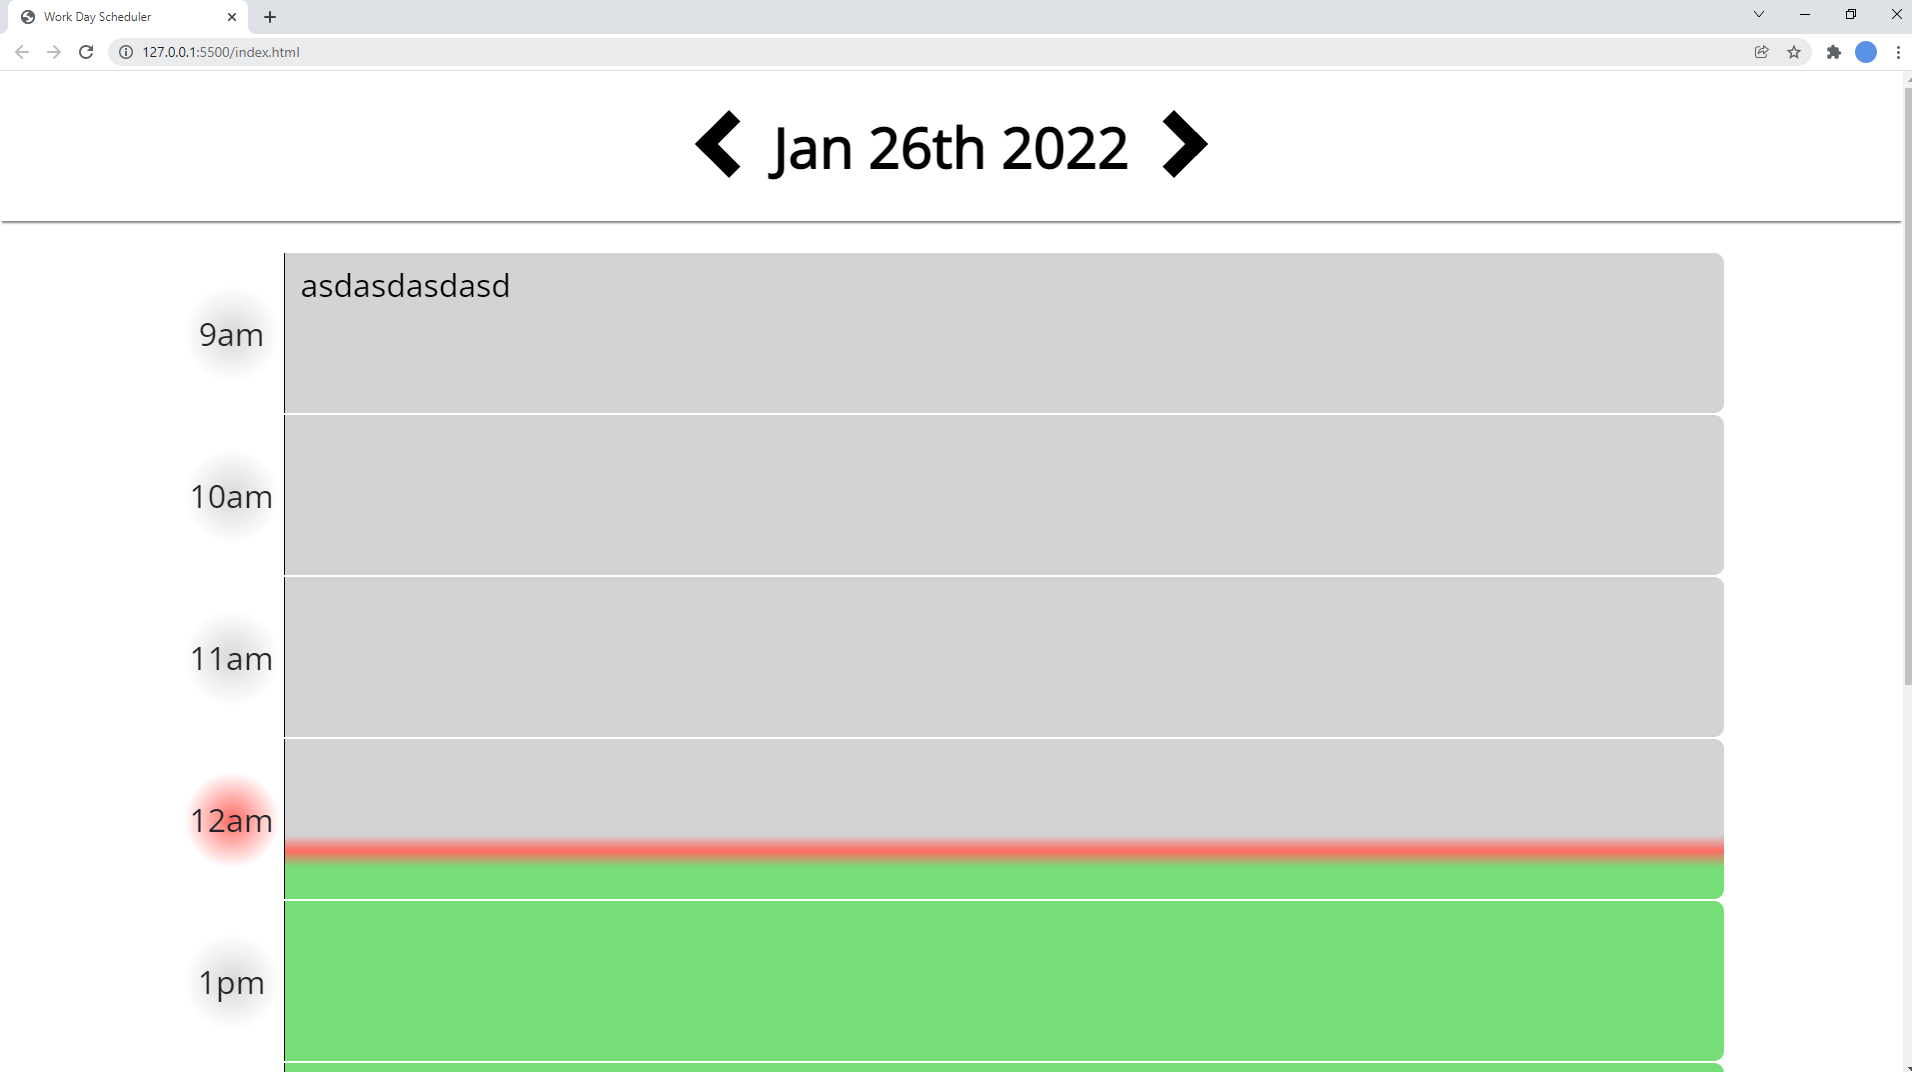
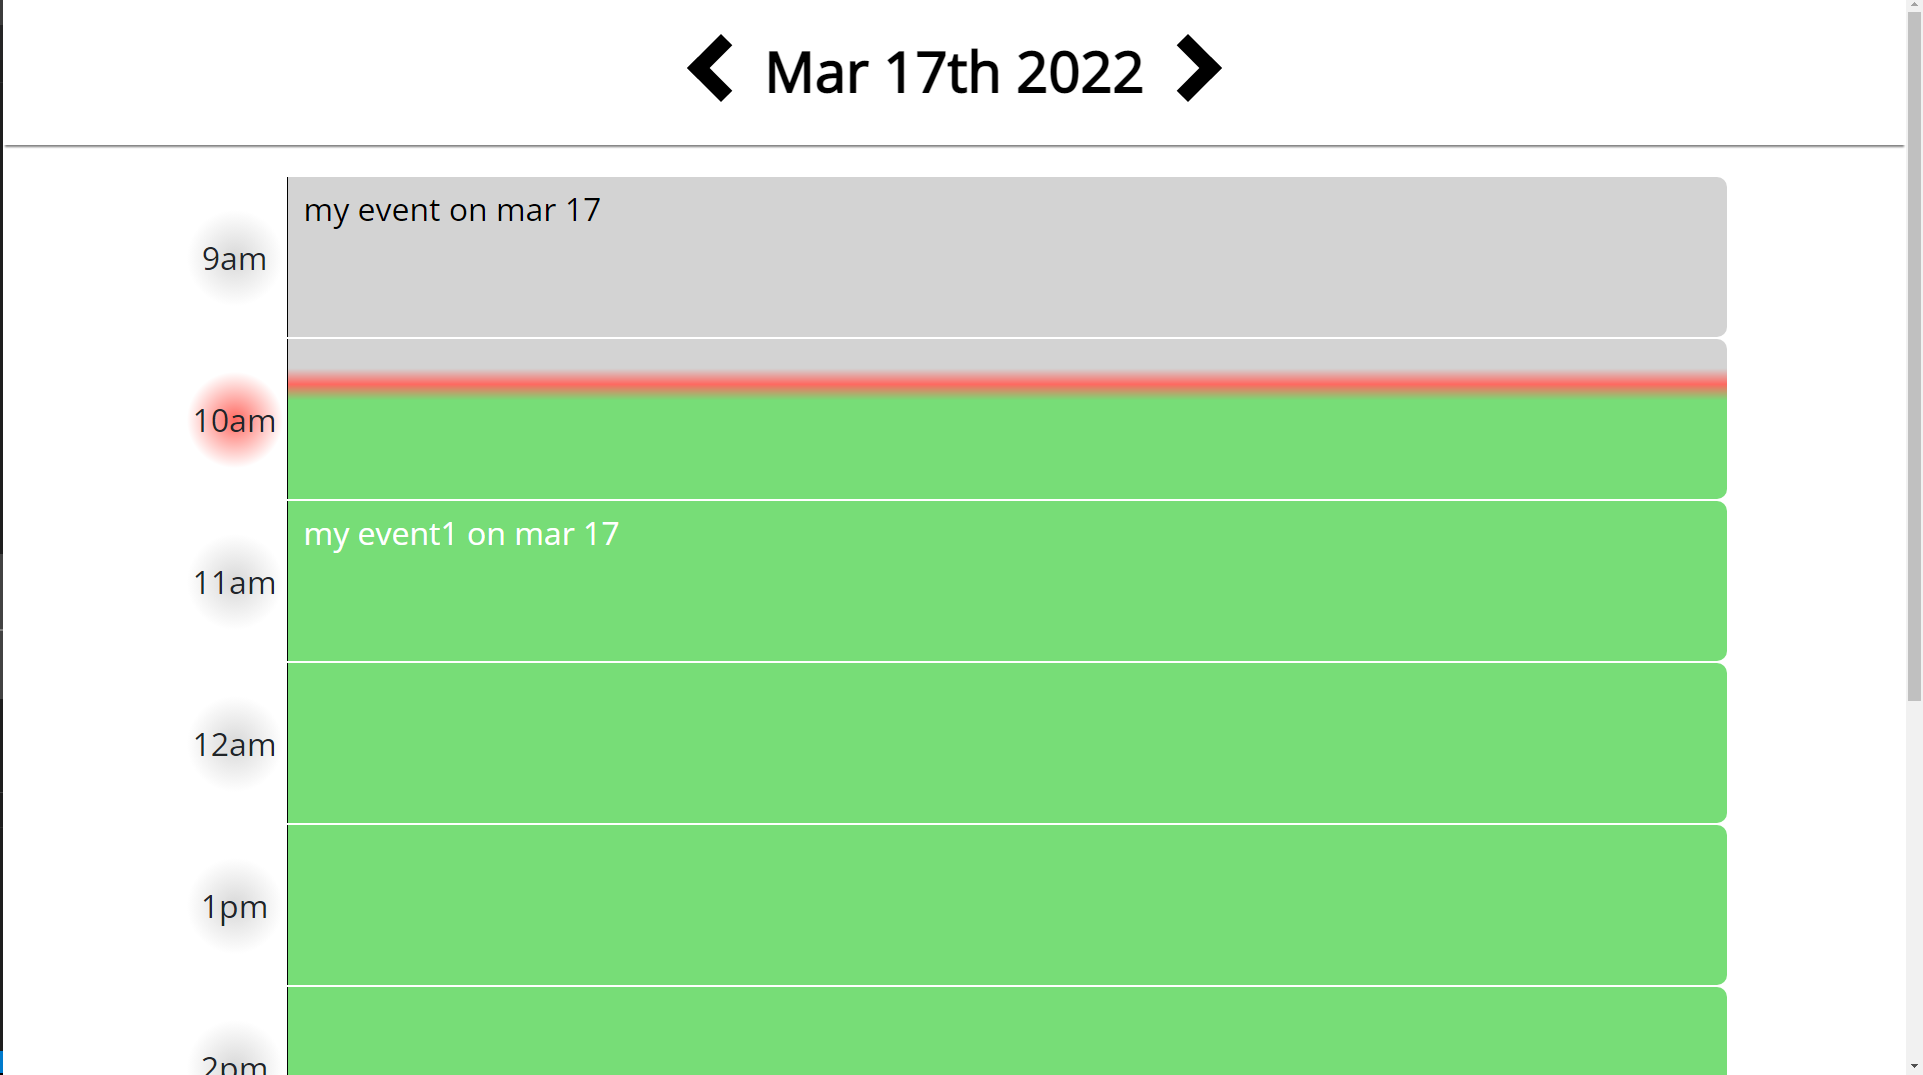
cleanup

diff --git a/assets/scripts/script.js b/assets/scripts/script.js
@@ -145,18 +145,16 @@ function updateTime () {
         currentDay.childNodes[1].textContent = current.format("MMM Do YYYY")
     }
 }
-
+let old = Date.now()
 var timeLoop = setInterval(function () {
     let m = current.minute()
     let d = current.day()
-    current.add(1.01, "seconds")
-    
-    if (m !== current.minute()) {
-        updatePast()
-    }
+    let passed = (Date.now() - old)/1000
+    current.add(passed, "seconds")
+    updatePast()
     if (d !== current.day()) {
         generateTable(current)
     }
-
+    old = Date.now()
     updateTime()
 }, 1000)

diff --git a/index.html b/index.html
@@ -34,9 +34,8 @@
             <p id="currentDay"><i class="arrow left"></i>DAY<i class="arrow right"></i></p>
         </div>
     </header>
-    <div class="container hidden">
-        
-    </div>
+
+    <div class="container hidden"></div>
 
     <script src="https://cdnjs.cloudflare.com/ajax/libs/jquery/3.2.1/jquery.min.js"></script>
     <script src="https://cdnjs.cloudflare.com/ajax/libs/moment.js/2.24.0/moment.min.js"></script>

diff --git a/assets/css/style.css b/assets/css/style.css
@@ -36,7 +36,7 @@ textarea {
   -moz-transition: height 1s ease;
   -o-transition: height 1s ease;
   transition: height 1s ease;
-  z-index: 1;
+  z-index: 2;
 }
 
 .contents {

diff --git a/README.md b/README.md
@@ -2,15 +2,15 @@
 
 ## Description
 
-In this assignment, I use JS in order to code a web app that allows the user to input text that is stored in a block denoted by a time between 8am and 5pm, in order to create a "calender". The code uses localStorage in order to allow the events to persist even wheen you reload the page. I use CSS grandients and animations in order to make the page look cleaner. The user can also change events in the past or in the future. The boxes are also color coded to past present and future, but the present box has a gradient on it with the red line denoting how far into the hour it is currently. The data for future and past dates also persists when you reload the page. All of this information updates in live time using an interval that runs every second.
+In this miniproject, I use JS in order to code a web app that allows the user to input text that is stored in a block denoted by a time between 8am and 5pm, in order to create a "calender". The code uses localStorage in order to allow the events to persist even wheen you reload the page. I use CSS gradients and animations in order to make the page look cleaner. The user can also change events in the past or in the future. The boxes are also color coded to past present and future, but the present box has a gradient on it with the red line denoting how far into the hour it is currently. The data for future and past dates also persists when you reload the page. All of this information updates in live time using an interval that runs every second.
 
 ## To test
 If you want to see what the page looks like at different times, go into your JavaScript console for the page and type "current.hour('YOURTIME')" and replace 'YOURTIME' with an integer denoting the hour of the day you want to check (1-24) it will take about a second to update
 
 ## Links
 
-Website: https://benw10-1.github.io/HW_5/  
-Repo: https://github.com/benw10-1/HW_5
+Website: https://benw10-1.github.io/dayPlanner/  
+Repo: https://github.com/benw10-1/dayPlanner
 
 ## Screenshots
 ![demo](assets/images/readMeImg1.png)
